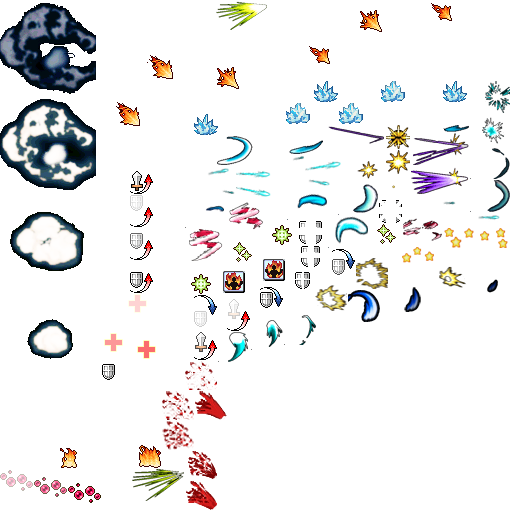
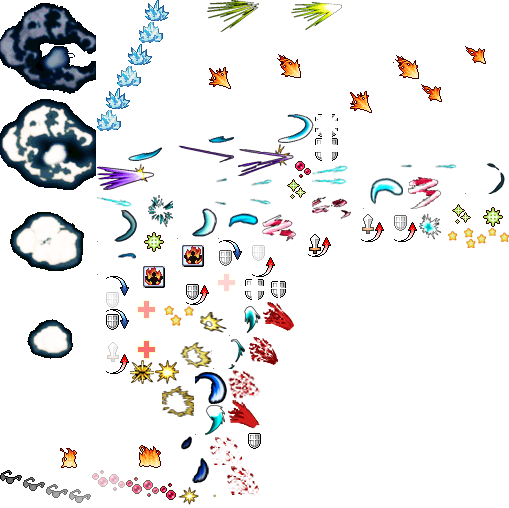
增加了生命转移，持续恢复，黑暗降临3个技能

diff --git a/Gdx002/src/com/bsu/tools/GameAnimationClass.java b/Gdx002/src/com/bsu/tools/GameAnimationClass.java
@@ -244,6 +244,16 @@ public class GameAnimationClass {
 			tr.add(texture_effect_skills.findRegion("s-66-",5));
 			tr.add(texture_effect_skills.findRegion("s-66-",6));
 			break;
+		case 67:
+			tr.add(texture_effect_skills.findRegion("s-34-",1));
+			tr.add(texture_effect_skills.findRegion("s-34-",2));
+			tr.add(texture_effect_skills.findRegion("s-34-",3));
+			tr.add(texture_effect_skills.findRegion("s-34-",4));
+			tr.add(texture_effect_skills.findRegion("s-34-",1));
+			tr.add(texture_effect_skills.findRegion("s-34-",2));
+			tr.add(texture_effect_skills.findRegion("s-34-",3));
+			tr.add(texture_effect_skills.findRegion("s-34-",4));
+			break;
 		default:
 			break;
 		}
@@ -370,6 +380,34 @@ public class GameAnimationClass {
 			tr.add(texture_effect_skills.findRegion("s-33-",7));
 			tr.add(texture_effect_skills.findRegion("s-33-",8));
 			break;
+		case 67:
+			tr.add(texture_effect_skills.findRegion("s-36-",1));
+			tr.add(texture_effect_skills.findRegion("s-36-",2));
+			tr.add(texture_effect_skills.findRegion("s-36-",3));
+			tr.add(texture_effect_skills.findRegion("s-36-",4));
+			tr.add(texture_effect_skills.findRegion("s-36-",5));
+			tr.add(texture_effect_skills.findRegion("s-36-",6));
+			tr.add(texture_effect_skills.findRegion("s-36-",1));
+			tr.add(texture_effect_skills.findRegion("s-36-",2));
+			tr.add(texture_effect_skills.findRegion("s-36-",3));
+			tr.add(texture_effect_skills.findRegion("s-36-",4));
+			tr.add(texture_effect_skills.findRegion("s-36-",5));
+			tr.add(texture_effect_skills.findRegion("s-36-",6));
+			break;
+		case 68:
+			tr.add(texture_effect_skills.findRegion("s-34-",1));
+			tr.add(texture_effect_skills.findRegion("s-34-",2));
+			tr.add(texture_effect_skills.findRegion("s-34-",3));
+			tr.add(texture_effect_skills.findRegion("s-34-",4));
+			break;
+		case 70:
+			tr.add(texture_effect_skills.findRegion("s-70-",1));
+			tr.add(texture_effect_skills.findRegion("s-70-",2));
+			tr.add(texture_effect_skills.findRegion("s-70-",3));
+			tr.add(texture_effect_skills.findRegion("s-70-",4));
+			tr.add(texture_effect_skills.findRegion("s-70-",4));
+			tr.add(texture_effect_skills.findRegion("s-70-",4));
+			break;
 		default:
 			break;
 		}
@@ -413,7 +451,13 @@ public class GameAnimationClass {
 			tr.add(texture_effect_skills.findRegion("s-39-",4));
 			tr.add(texture_effect_skills.findRegion("s-39-",5));
 			tr.add(texture_effect_skills.findRegion("s-39-",6));
-		break;
+			break;
+		case 68:
+			tr.add(texture_effect_skills.findRegion("s-34-",1));
+			tr.add(texture_effect_skills.findRegion("s-34-",2));
+			tr.add(texture_effect_skills.findRegion("s-34-",3));
+			tr.add(texture_effect_skills.findRegion("s-34-",4));
+			break;
 		default:
 			break;
 		}

diff --git a/Gdx002/src/com/bsu/obj/Player.java b/Gdx002/src/com/bsu/obj/Player.java
@@ -56,13 +56,13 @@ public class Player {
 			RoleFactory rf = RoleFactory.getInstance();
 			playerRole.add(new Role(Role.Type.HERO,QUALITY.green,CLASSES.fighter,"测试人物",U.getRandom(100, -6, 6),8,10
 					,EquipFactory.getInstance().getWeaponByIdx(1),EquipFactory.getInstance().getArmorByIdx(1),
-					new SkillTree().getSkillTreeFixedSkill(66)
+					new SkillTree().getSkillTreeFixedSkill(64)
 					,GameTextureClass.getInstance().fc_photo));				//测试技能用
 			playerRole.add(rf.getFighter("fc", Role.Type.HERO, QUALITY.green,GameTextureClass.getInstance().fc_photo));
 //			playerRole.add(rf.getFighter("ss哈哈", Role.Type.HERO, QUALITY.blue,GameTextureClass.getInstance().zyc_photo));
 //			playerRole.add(rf.getFighter("很好", Type.HERO, QUALITY.green,GameTextureClass.getInstance().fc_photo));
 //			playerRole.add(rf.getFighter("张永臣", Type.HERO, QUALITY.purple,GameTextureClass.getInstance().zyc_photo));
-//			playerRole.add(rf.getFighter("努努", Type.HERO, QUALITY.green,GameTextureClass.getInstance().fc_photo));
+			playerRole.add(rf.getFighter("努努", Type.HERO, QUALITY.green,GameTextureClass.getInstance().fc_photo));
 
 		}
 		resetRoleArray(playerRole);
@@ -78,6 +78,7 @@ public class Player {
 		if (playerFightRole.size == 0) {
 			playerFightRole.add(playerRole.get(0));
 			playerFightRole.add(playerRole.get(1));
+			playerFightRole.add(playerRole.get(2));
 		}
 		return playerFightRole;
 	}
